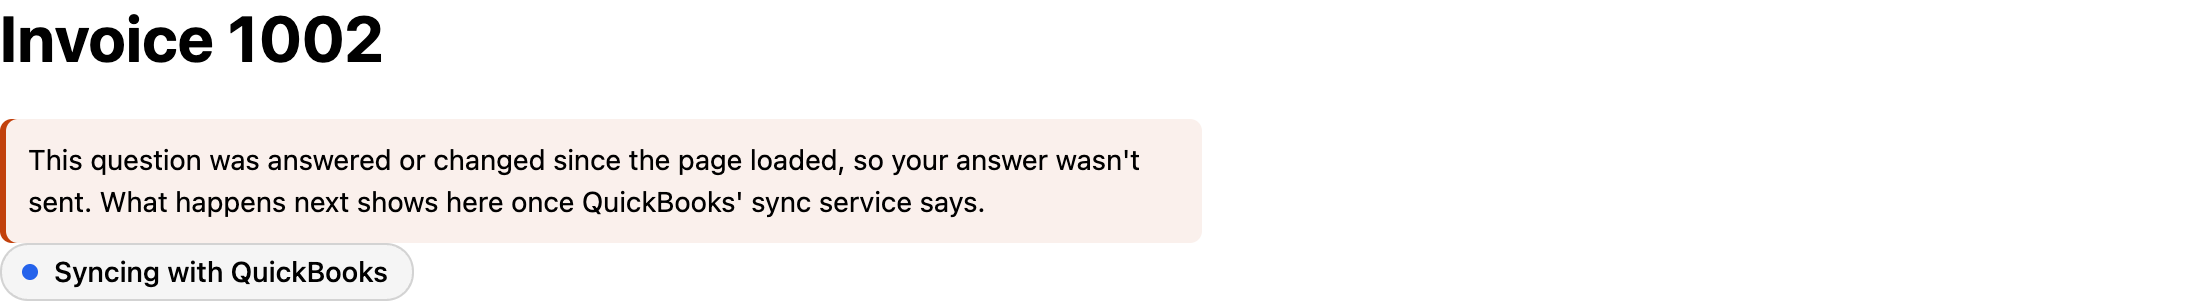
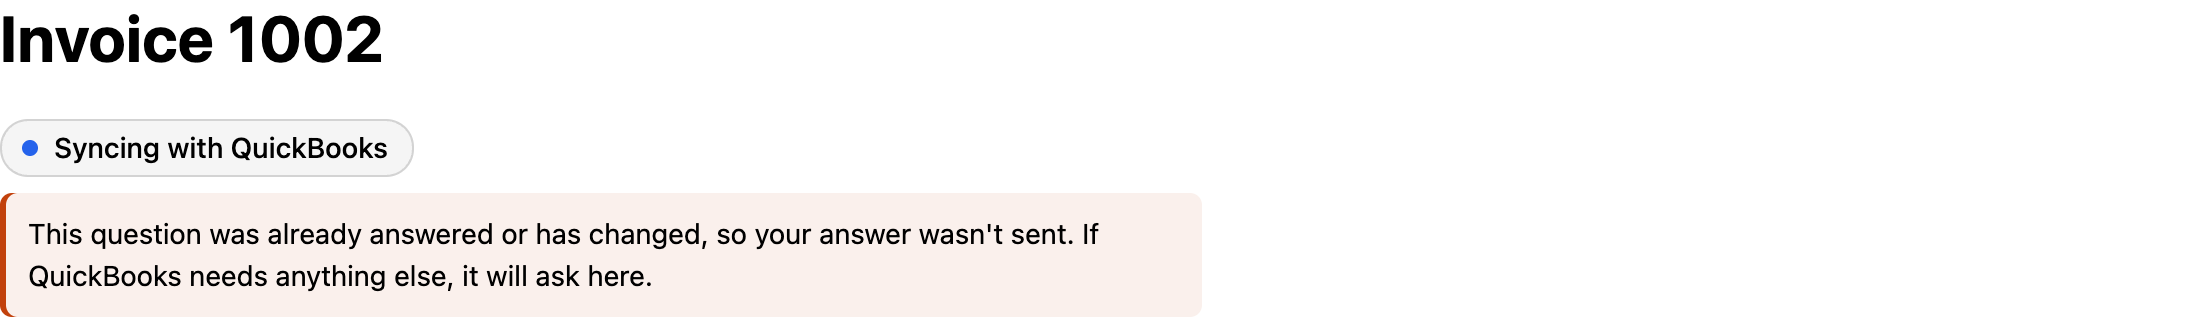
An expired answer's message sits under the status line and says what happens next
The one-shot error now renders inside the status block, after the summary, so it
no longer sits flush above the status pill. errors.question_moved_on is reworded.

diff --git a/spec/requests/run_status_partial_spec.rb b/spec/requests/run_status_partial_spec.rb
@@ -32,8 +32,9 @@ RSpec.describe "The run status partial", type: :request do
          headers: { "X-Account" => account.id.to_s, "Referer" => "http://www.example.com/invoices/#{invoice.id}" }
     expect(response).to redirect_to("http://www.example.com/invoices/#{invoice.id}")
 
-    errors = page.css(".qube-error")
-    expect(errors.map(&:text)).to eq(["This was already sent, so there's nothing to try again."])
+    shown = page
+    expect(shown.css(".qube-error").map(&:text)).to eq(["This was already sent, so there's nothing to try again."])
+    expect(shown.at_css(".qube-run-status .qube-run-summary + .qube-error")).not_to be_nil # under the status line
     expect(page.css(".qube-error")).to be_empty # shown once
   end
 

diff --git a/README.md b/README.md
@@ -991,7 +991,7 @@ en:
 | `errors.disconnect_unreachable` | Couldn't reach QuickBooks' sync service just now. Try disconnecting again in a minute. | a disconnect QuBe Sync didn't answer |
 | `errors.still_syncing` | Something is still syncing with this company file. Let it finish, or answer its question, then disconnect. | a disconnect while work is going |
 | `errors.question_changed` | This question changed after the page loaded, so your answer wasn't sent. The page now shows the latest. | an answer to a changed question |
-| `errors.question_moved_on` | This question was answered or changed since the page loaded, so your answer wasn't sent. What happens next shows here once QuickBooks' sync service says. | an answer QuBe Sync says came too late (409, or a 400 such as `not_awaiting_input`) |
+| `errors.question_moved_on` | This question was already answered or has changed, so your answer wasn't sent. If QuickBooks needs anything else, it will ask here. | an answer QuBe Sync says came too late (409, or a 400 such as `not_awaiting_input`) |
 | `errors.answer_refused`, `errors.answer_refused_with` | That answer couldn't be used. Check it and try again.; That answer couldn't be used: %{detail} | an answer QuBe Sync refused (422) |
 | `question.set_all` | Set all to: | before a rows field's buttons that set every record's choice (each an option's own label) |
 | `question.use_for_all` | one: Use for the other record too; other: Use for the other %{count} records too | under a filled field other records ask too (a plain string works too) |

diff --git a/CHANGELOG.md b/CHANGELOG.md
@@ -112,7 +112,8 @@ read as QuBe Sync now sends them. Run `bin/rails qube_rails:install:migrations` 
 - After a 409 (or a 400 such as `not_awaiting_input`) for an answer, the run reads as running
   ("Syncing with QuickBooks") rather than "Needs your answer" with no question shown, and the
   message (new key `errors.question_moved_on`) no longer says the page shows the latest. A newer
-  question already on the run is left alone. In 0.2.0 too.
+  question already on the run is left alone. In 0.2.0 too. A one-shot error now shows under the
+  status line, inside the status block, not above it.
 - "Use for all N" is now "Use for the other record too" / "Use for the other %{count} records too"
   (`question.use_for_all`, pluralized; a plain string still works), and once pressed it's replaced
   by a note, "Also filled in on the other record." (new key `question.used_for_all`), until the
